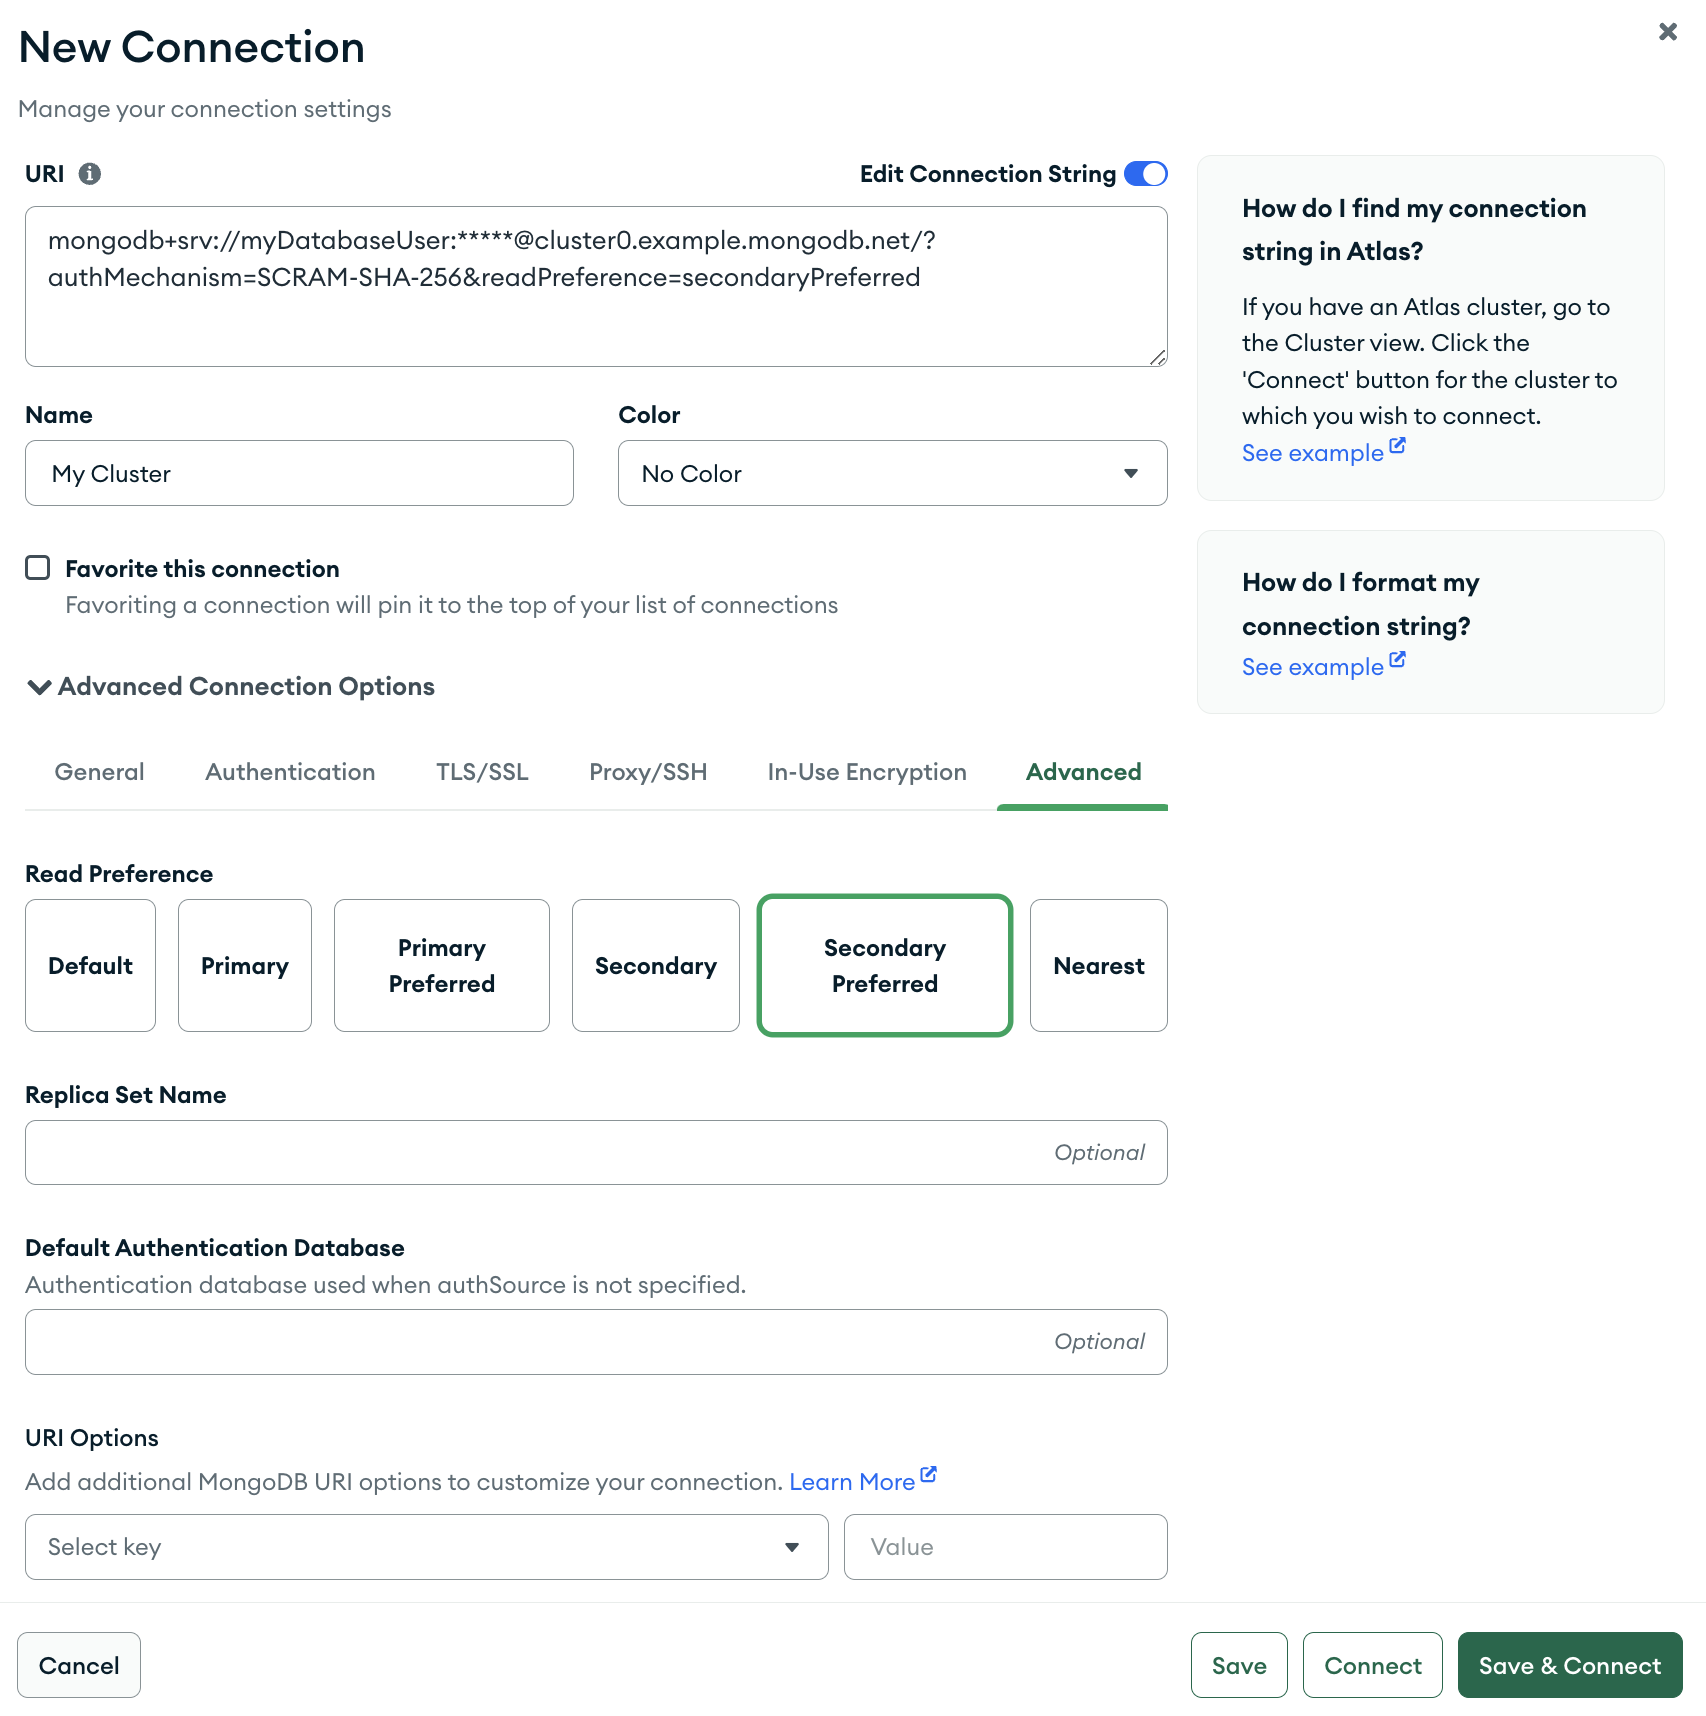
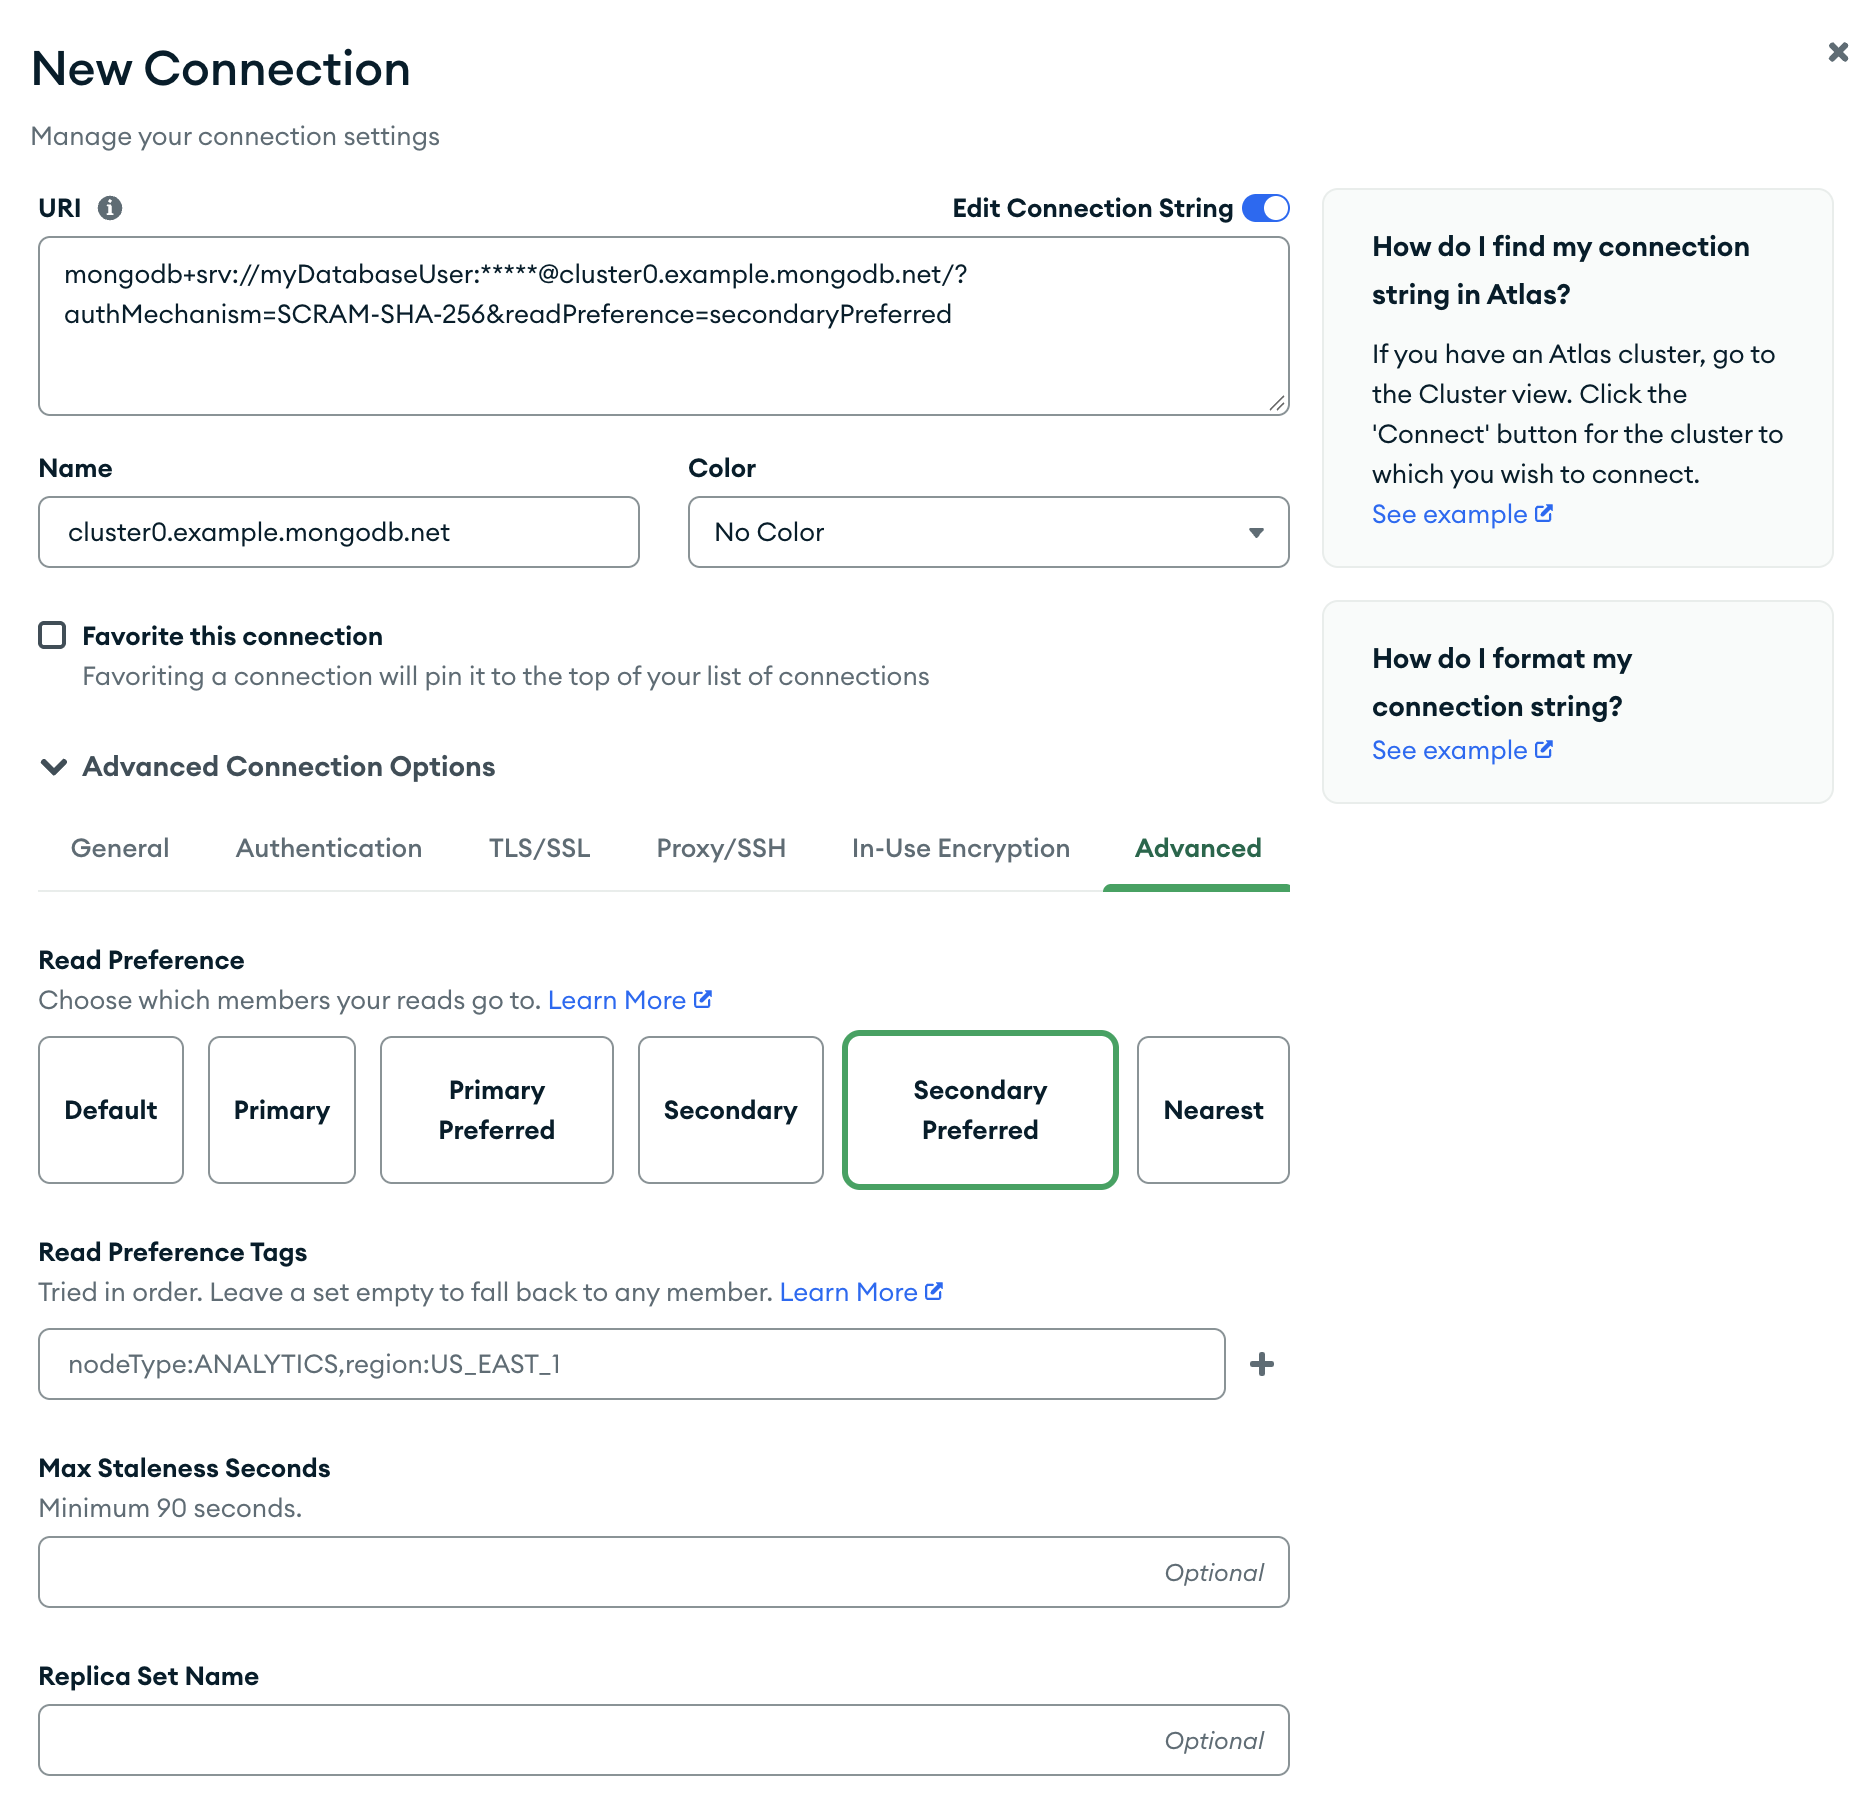
DOCSP-66066 Update Compass Advanced Connection tab for new read preference form (#25761)
## DESCRIPTION

Updates the Compass Advanced Connection tab docs for the new read
preference form (COMPASS-11199,
[mongodb-js/compass#8543](https://github.com/mongodb-js/compass/pull/8543)).

- `connect/advanced-connection-options/advanced-connection.txt`: Adds
the **Default** read preference option, documents the **Read Preference
Tags** and **Max Staleness Seconds** fields, notes that
`readPreferenceTags` and `maxStalenessSeconds` are no longer set through
**URI Options**, and refreshes the Example and Learn More sections.
- `images/authentication/secondary-preferred.png`: Replaces the Example
screenshot with the new form.
- `includes/open-new-connection.rst`: Adds a step for editing an
existing connection from the Connections Sidebar.

## STAGING

- [Advanced Connection
Tab](https://deploy-preview-25761--compass-docs.netlify.app/docs/compass/connect/advanced-connection-options/advanced-connection/)

## JIRA

[DOCSP-66066](https://jira.mongodb.org/browse/DOCSP-66066)

## SELF-REVIEW CHECKLIST

- [ ] Does each file have 3-5 taxonomy facet tags?
See the [taxonomy tagging
instructions](https://wiki.corp.mongodb.com/display/DE/Taxonomy+tagging+instructions)
and this [example
PR](https://github.com/10gen/cloud-docs/pull/5042/files)
- [ ] Is this free of any warnings or errors in the RST?
- [ ] Is this free of spelling errors?
- [ ] Is this free of grammatical errors?
- [ ] Is this free of staging / rendering issues?
- [ ] Are all the links working?
[…]

diff --git a/content/compass/source/includes/open-new-connection.rst b/content/compass/source/includes/open-new-connection.rst
@@ -5,3 +5,7 @@ modal.
 If you already have connections listed in the :guilabel:`Connections
 Sidebar`, click the :icon-lg:`Plus` icon on the top right of the sidebar
 to open the :guilabel:`New Connection` modal. 
+
+To edit an existing connection, click the :icon-lg:`Ellipsis` icon 
+that appears when you hover over your connection in the 
+:guilabel:`Connections Sidebar`, and click :guilabel:`Edit connection`.
